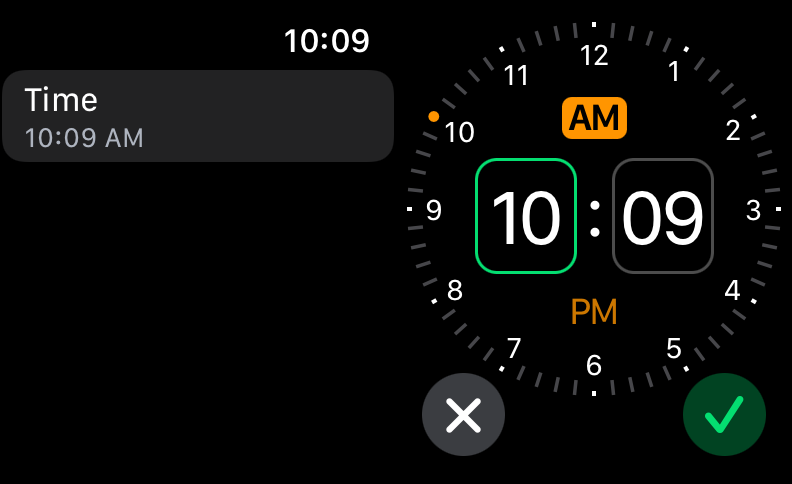
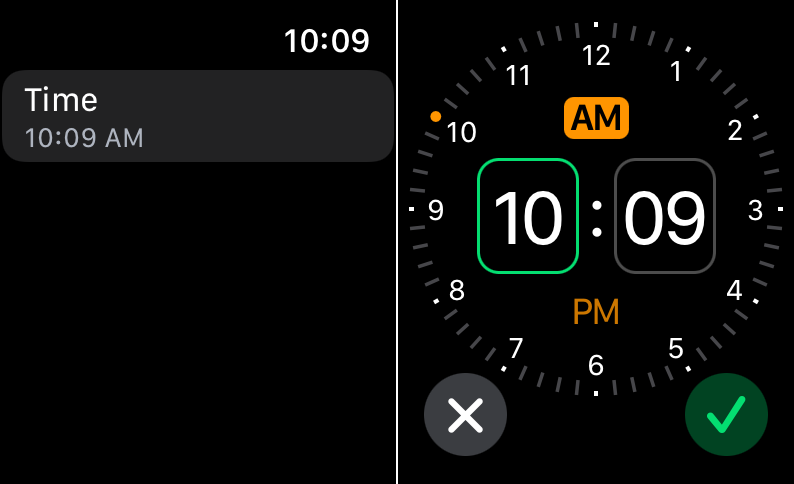
Add gaps to screenshot collages

diff --git a/README.md b/README.md
@@ -29,7 +29,7 @@ DatePicker(
 )
 ```
 
-<img src="/Sources/WatchDatePicker/Documentation.docc/Resources/DatePicker.png?raw=true" alt="" width="594" />
+<img src="/Sources/WatchDatePicker/Documentation.docc/Resources/DatePicker.png?raw=true" alt="" width="596" />
 
 
 ### Selecting a Date
@@ -42,7 +42,7 @@ DatePicker(
 )
 ```
 
-<img src="/Sources/WatchDatePicker/Documentation.docc/Resources/DatePicker_date.png?raw=true" alt="" width="396" />
+<img src="/Sources/WatchDatePicker/Documentation.docc/Resources/DatePicker_date.png?raw=true" alt="" width="397" />
 
 
 ### Selecting a Time
@@ -55,7 +55,7 @@ DatePicker(
 )
 ```
 
-<img src="/Sources/WatchDatePicker/Documentation.docc/Resources/DatePicker_hourAndMinute.png?raw=true" alt="" width="396" />
+<img src="/Sources/WatchDatePicker/Documentation.docc/Resources/DatePicker_hourAndMinute.png?raw=true" alt="" width="397" />
 
 
 ### Customization
